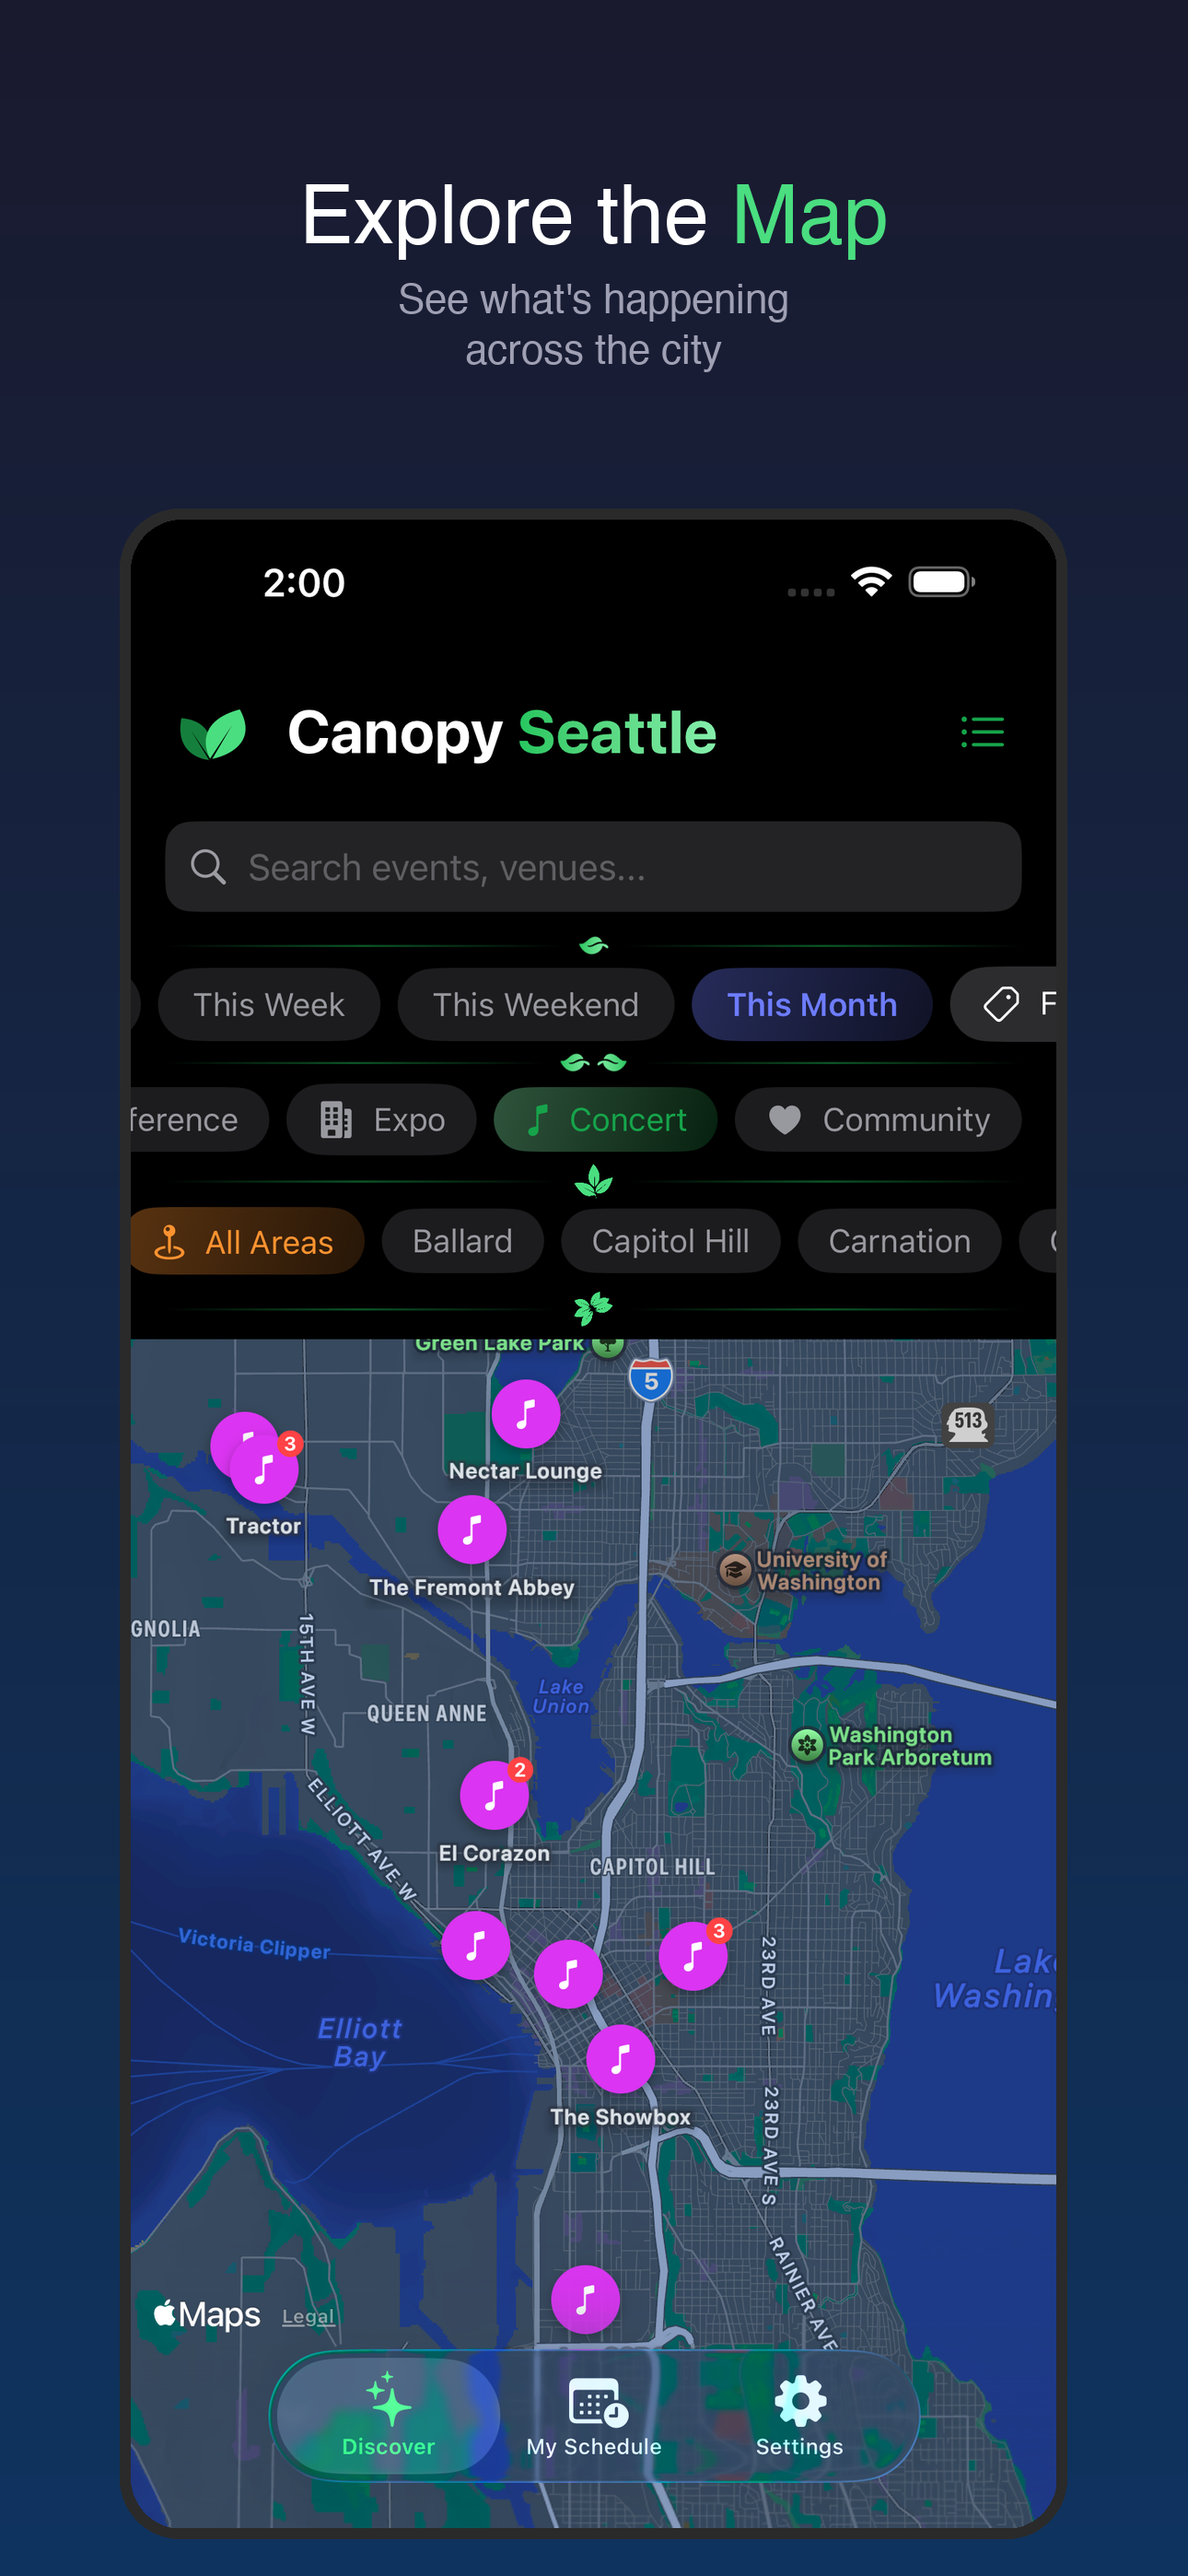
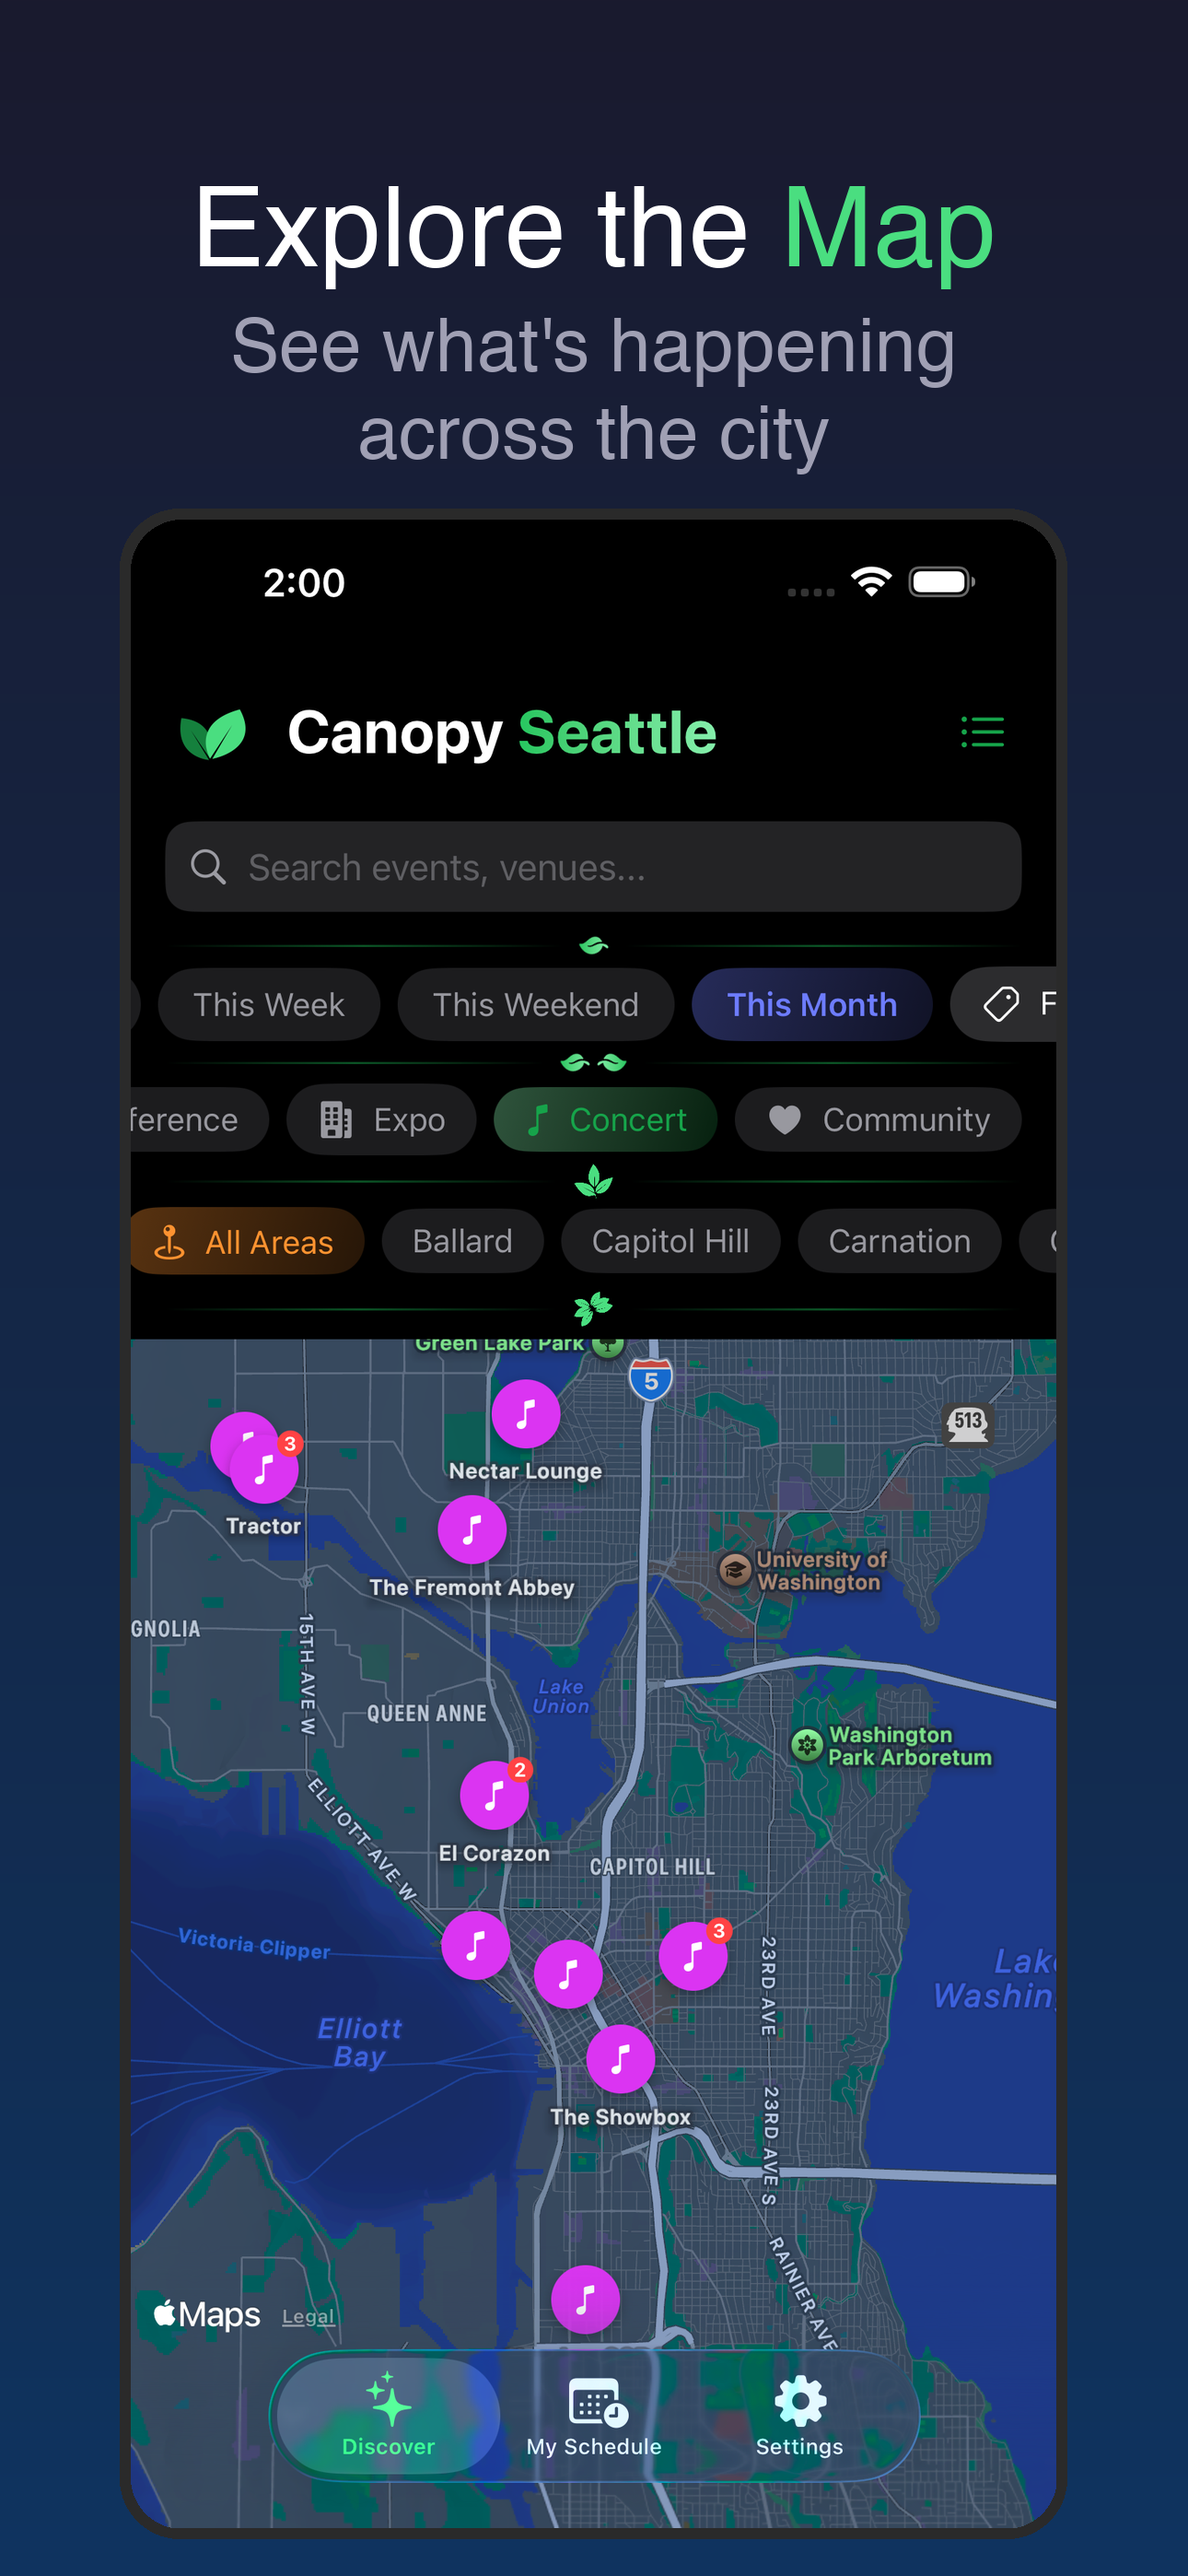
Bigger screenshot text, spinning six-leaves divider on filter toggle
- Bump App Store screenshot title (120pt) and subtitle (80pt) font sizes
- Add spinning six-leaves divider animation (2 full rotations) when filter
  pills hide/show via chevron tap or search text
- Unify hide/show animation so both paths use the same code
- Keep six-leaves button always visible with chevron indicator

Changed region(s): [[0.155, 0.0622, 0.8372, 0.1867]]

diff --git a/canopy/Views/DiscoverView.swift b/canopy/Views/DiscoverView.swift
@@ -97,8 +97,8 @@ struct DiscoverView: View {
         return result
     }
 
-    private var isSearching: Bool { searchFieldFocused || !searchText.isEmpty }
-    private var pillsHidden: Bool { isSearching || filterPillsCollapsed }
+    private var isSearching: Bool { !searchText.isEmpty }
+    private var pillsHidden: Bool { filterPillsCollapsed }
 
     var body: some View {
         NavigationStack {
@@ -178,6 +178,7 @@ struct DiscoverView: View {
                     LeafyDivider()
                         .padding(.horizontal)
                         .padding(.vertical, 0)
+
 
                     // Time filter pills
                     ScrollView(.horizontal, showsIndicators: false) {
@@ -373,32 +374,32 @@ struct DiscoverView: View {
                             .padding(.horizontal)
                         }
                     }
-                }
-                .padding(.bottom, 8)
-                .transition(.opacity.combined(with: .move(edge: .top)))
-                }
 
-                // Drawer handle: always visible (unless searching). Tapping
-                // toggles the manual collapse state for the filter pills.
-                if !isSearching {
-                    Button {
-                        withAnimation(.easeInOut(duration: 0.2)) {
-                            filterPillsCollapsed.toggle()
-                        }
-                    } label: {
-                        SixLeavesDivider()
-                            .overlay(alignment: .trailing) {
-                                Image(systemName: filterPillsCollapsed ? "chevron.down" : "chevron.up")
-                                    .font(.system(size: 11, weight: .semibold))
-                                    .foregroundStyle(Color.leafDeep)
-                                    .padding(.trailing, 2)
-                            }
+                } // end VStack
+                .transition(.opacity.combined(with: .move(edge: .top)))
+                } // end if !pillsHidden
+
+                // Drawer handle — always visible
+                Button {
+                    withAnimation(.easeInOut(duration: 0.5)) {
+                        filterPillsCollapsed.toggle()
                     }
-                    .buttonStyle(.plain)
-                    .padding(.horizontal)
-                    .padding(.bottom, 6)
-                    .accessibilityLabel(filterPillsCollapsed ? "Show filters" : "Hide filters")
+                } label: {
+                    SixLeavesDivider()
+                        .rotationEffect(.degrees(pillsHidden ? 720 : 0))
+                        .animation(.easeInOut(duration: 0.5), value: pillsHidden)
+                        .overlay(alignment: .trailing) {
+                            Image(systemName: filterPillsCollapsed ? "chevron.down" : "chevron.up")
+                                .font(.system(size: 11, weight: .semibold))
+                                .foregroundStyle(Color.leafDeep)
+                                .padding(.trailing, 2)
+                        }
                 }
+                .buttonStyle(.plain)
+                .padding(.horizontal)
+                .padding(.top, 6)
+                .padding(.bottom, 6)
+                .accessibilityLabel(filterPillsCollapsed ? "Show filters" : "Hide filters")
 
                 if showMapView {
                     // Map view
@@ -488,7 +489,12 @@ struct DiscoverView: View {
                     }
                 }
             }
-            .animation(.easeInOut(duration: 0.25), value: pillsHidden)
+            .animation(.easeInOut(duration: 0.5), value: pillsHidden)
+            .onChange(of: isSearching) { _, searching in
+                withAnimation(.easeInOut(duration: 0.5)) {
+                    filterPillsCollapsed = searching
+                }
+            }
             .navigationBarHidden(true)
             .navigationDestination(for: Event.self) { event in
                 EventDetailView(event: event)

diff --git a/screenshots/capture.py b/screenshots/capture.py
@@ -82,12 +82,12 @@ def make_screenshot(screen, index):
 
     # Try to load a nice font, fall back to default
     try:
-        title_font = ImageFont.truetype("/System/Library/Fonts/SFProDisplay-Bold.otf", 88)
-        sub_font = ImageFont.truetype("/System/Library/Fonts/SFProDisplay-Regular.otf", 44)
+        title_font = ImageFont.truetype("/System/Library/Fonts/SFProDisplay-Bold.otf", 120)
+        sub_font = ImageFont.truetype("/System/Library/Fonts/SFProDisplay-Regular.otf", 80)
     except (IOError, OSError):
         try:
-            title_font = ImageFont.truetype("/System/Library/Fonts/Helvetica.ttc", 88)
-            sub_font = ImageFont.truetype("/System/Library/Fonts/Helvetica.ttc", 44)
+            title_font = ImageFont.truetype("/System/Library/Fonts/Helvetica.ttc", 120)
+            sub_font = ImageFont.truetype("/System/Library/Fonts/Helvetica.ttc", 80)
         except (IOError, OSError):
             title_font = ImageFont.load_default()
             sub_font = ImageFont.load_default()
@@ -141,12 +141,12 @@ def make_screenshot(screen, index):
 
     # Subtitle
     sub_lines = screen["subtitle"].split("\n")
-    y_sub = y_title + 110
+    y_sub = y_title + 145
     for line in sub_lines:
         sub_bbox = draw.textbbox((0, 0), line, font=sub_font)
         sub_w = sub_bbox[2] - sub_bbox[0]
         draw.text(((OUT_W - sub_w) // 2, y_sub), line, fill=GRAY, font=sub_font)
-        y_sub += 55
+        y_sub += 95
 
     # Paste onto canvas
     canvas = canvas.convert("RGBA")
